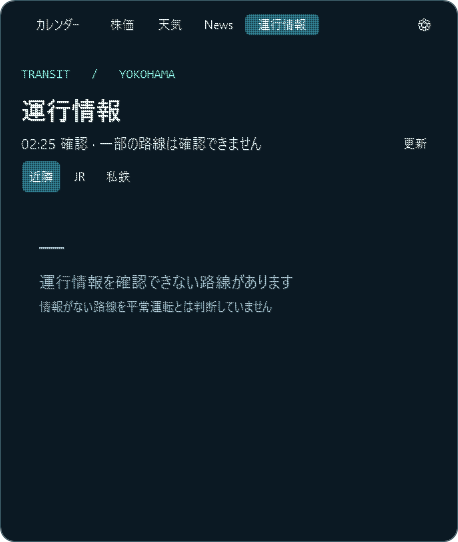
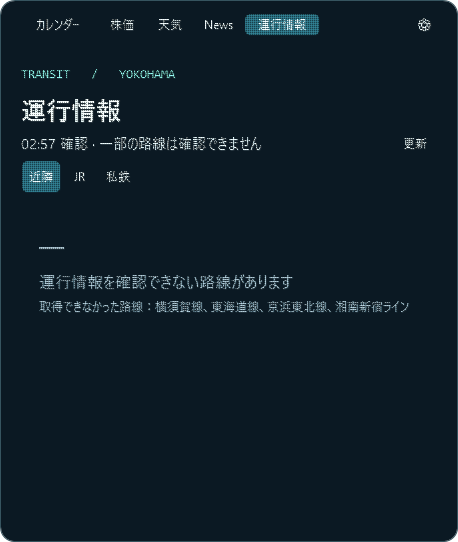
Show unconfirmed transit route names and add persisted particle animation speed

Changed region(s): [[0.0917, 0.5314, 0.8865, 0.5904], [0.0917, 0.2362, 0.1223, 0.2952]]

diff --git a/src/Calendar.xaml b/src/Calendar.xaml
@@ -175,9 +175,10 @@
             <UniformGrid Name="LoadingChoices" Columns="3"/>
             <Border Name="LoadingPreviewArea" Height="132" BorderBrush="#2A5965" BorderThickness="1" CornerRadius="6" Margin="4,10,4,3"><Grid Name="LoadingPreview" ClipToBounds="True"/></Border>
           </StackPanel></Grid>
-          <Grid><Button Name="ReplayPreview" Content="▶  もう一度プレビュー" HorizontalAlignment="Left" Foreground="#8FE4DD" Margin="4,3"/><Button Name="OpenCredits" Content="データ出典" HorizontalAlignment="Right" Margin="4,3" Foreground="#92B5BE"/></Grid>
+          <Grid><Grid.ColumnDefinitions><ColumnDefinition Width="Auto"/><ColumnDefinition/><ColumnDefinition Width="Auto"/></Grid.ColumnDefinitions><Button Name="ReplayPreview" Content="▶  もう一度プレビュー" HorizontalAlignment="Left" Foreground="#8FE4DD" Margin="4,3"/><Button Name="AnimationSpeed" Grid.Column="1" Content="速度：標準 ▾" HorizontalAlignment="Center" Width="108" Margin="0,3" ToolTip="画面の開閉・切り替えの演出速度"/><Button Name="OpenCredits" Grid.Column="2" Content="データ出典" HorizontalAlignment="Right" Margin="4,3" Foreground="#92B5BE"/></Grid>
         </StackPanel>
       </Border>
+      <Border Name="SpeedPicker" Grid.RowSpan="2" Width="176" HorizontalAlignment="Left" VerticalAlignment="Bottom" Margin="0,0,0,82" Background="#102835" BorderBrush="#528793" BorderThickness="1" CornerRadius="7" Padding="7" Visibility="Collapsed"><StackPanel Name="SpeedChoices"/></Border>
       <Border Name="TimerPicker" Grid.RowSpan="2" Width="312" HorizontalAlignment="Right" VerticalAlignment="Bottom" Margin="0,0,17,48"
               Background="#102835" BorderBrush="#528793" BorderThickness="1" CornerRadius="10" Padding="12" Visibility="Collapsed">
         <StackPanel>

diff --git a/src/InformationViews.cs b/src/InformationViews.cs
@@ -73,22 +73,28 @@ namespace OrbitCalendar
             if (news) { RenderNewsArticle(stale); return; }
             var routes = information.Items.Where(i => choice[4] == 0 || (choice[4] == 1 ? i.Source == "JR東日本" : i.Source != "JR東日本")).ToArray();
             var items = routes.Where(i => i.Normal == false).ToArray();
-            Get<TextBlock>("DataStamp").Text = information.Fetched.AddHours(9).ToString("HH:mm") + " 確認" + (stale ? " · 更新失敗（前回の情報）" : information.PartialFailure ? " · 一部の路線は確認できません" : "");
+            var unconfirmed = (stale ? routes : routes.Where(i => !i.Normal.HasValue)).Select(i => i.Title).Distinct().ToArray();
+            string missing = unconfirmed.Length == 0 ? "" : (stale ? "今回確認できなかった路線：" : "取得できなかった路線：") + string.Join("、", unconfirmed);
+            Get<TextBlock>("DataStamp").Text = information.Fetched.AddHours(9).ToString("HH:mm") + " 確認" + (stale ? " · 更新失敗（前回の情報）" : unconfirmed.Length > 0 ? " · 一部の路線は確認できません" : "");
             var body = Get<StackPanel>("InformationBody"); body.Children.Clear();
             if (items.Length == 0)
             {
                 bool clear = !stale && routes.Length > 0 && Array.TrueForAll(routes, r => r.Normal == true);
                 string title = clear ? "現在、運行に大きな乱れはありません" : stale ? "前回の確認では、遅延等の掲載はありません" : "運行情報を確認できない路線があります";
-                string detail = clear ? "対象路線に遅延・見合わせの発表はありません" : stale ? "更新できませんでした。最新情報は各社公式サイトへ" : "情報がない路線を平常運転とは判断していません";
+                string detail = clear ? "対象路線に遅延・見合わせの発表はありません" : missing.Length > 0 ? missing : "対象路線の情報を確認できませんでした";
                 var status = new StackPanel();
                 status.Children.Add(new TextBlock { Text = clear ? "✓" : "—", FontSize = 25, Foreground = clear ? aqua : muted });
                 status.Children.Add(new TextBlock { Text = title, FontSize = 16, TextWrapping = TextWrapping.Wrap, Foreground = clear ? aqua : muted, Margin = new Thickness(0, 9, 0, 7) });
-                status.Children.Add(new TextBlock { Text = detail, FontSize = 12, TextWrapping = TextWrapping.Wrap, Foreground = muted });
+                status.Children.Add(new TextBlock { Text = detail, FontSize = 12, TextWrapping = TextWrapping.Wrap, TextTrimming = TextTrimming.CharacterEllipsis, MaxHeight = 54, ToolTip = detail, Foreground = muted, Tag = missing.Length > 0 ? "transit-missing-names" : null });
                 body.Children.Add(new Border { Child = status, Padding = new Thickness(18), Margin = new Thickness(0, 16, 0, 0), CornerRadius = new CornerRadius(8), Background = Art.Ink("#152E39"), Tag = clear ? "transit-clear" : stale ? "transit-stale" : "transit-unavailable" });
                 return;
             }
             int perPage = 3;
             int pages = Math.Max(1, (items.Length + perPage - 1) / perPage); infoPage = Math.Max(0, Math.Min(infoPage, pages - 1));
+            if (missing.Length > 0)
+                body.Children.Add(new Border { Child = new TextBlock { Text = missing, FontSize = 12, TextWrapping = TextWrapping.Wrap,
+                    TextTrimming = TextTrimming.CharacterEllipsis, MaxHeight = 54, ToolTip = missing, Foreground = muted, Tag = "transit-missing-names" },
+                    Padding = new Thickness(10, 8, 10, 8), Margin = new Thickness(0, 7, 0, 5), CornerRadius = new CornerRadius(7), Background = Art.Ink("#152E39"), Tag = "transit-missing" });
             foreach (var item in items.Skip(infoPage * perPage).Take(perPage))
             {
                 var captured = item;
@@ -101,7 +107,7 @@ namespace OrbitCalendar
                 }
                 string date = item.Published.HasValue ? item.Published.Value.ToOffset(TimeSpan.FromHours(9)).ToString("M/d HH:mm") + (news ? " 配信" : " 発表") : news ? "配信時刻なし" : "発表時刻なし";
                 content.Children.Add(new TextBlock { Text = item.Source + " · " + date + " ↗", FontSize = 10, Foreground = Art.Ink("#92B5BE"), Margin = new Thickness(0, 4, 0, 0) });
-                var button = new Button { Content = content, Padding = new Thickness(9, 7, 9, 7), Background = Art.Ink("#152E39"), Margin = new Thickness(0, 4, 0, 0), HorizontalContentAlignment = HorizontalAlignment.Left, ToolTip = news ? "元記事を開く" : "公式の運行情報を開く" };
+                var button = new Button { Content = content, Padding = new Thickness(9, 7, 9, 7), Background = Art.Ink("#152E39"), Margin = new Thickness(0, 4, 0, 0), HorizontalContentAlignment = HorizontalAlignment.Left, ToolTip = news ? "元記事を開く" : "公式の運行情報を開く", Tag = "transit-disruption" };
                 button.Click += delegate { OpenLink(captured.Url); }; body.Children.Add(button);
             }
             if (pages <= 1) return;

diff --git a/src/Controls.cs b/src/Controls.cs
@@ -12,10 +12,13 @@ namespace OrbitCalendar
     {
         static readonly string path = Path.Combine(Environment.GetFolderPath(Environment.SpecialFolder.LocalApplicationData), "OrbitCalendar", "display.txt");
         public static int Pattern, Motion = 6, Minutes = 30, LastTab, LoadingStyle;
+        public static int AnimationSpeed = 1;
+        public static double AnimationScale { get { return AnimationSpeed == 0 ? .5 : AnimationSpeed == 2 ? 1.4 : 1; } }
         static Preferences() { Load(); }
         internal static void Load()
         {
             Pattern = LastTab = LoadingStyle = 0; Motion = 6; Minutes = 30;
+            AnimationSpeed = 1;
             try
             {
                 var parts = File.ReadAllLines(path);
@@ -25,13 +28,14 @@ namespace OrbitCalendar
                 if (parts.Length > 2 && int.TryParse(parts[2], out value) && value >= 1 && value <= 180) Minutes = value;
                 if (parts.Length > 3 && int.TryParse(parts[3], out value) && value >= 0 && value <= 4) LastTab = value;
                 if (parts.Length > 4 && int.TryParse(parts[4], out value) && value >= 0 && value < 6) LoadingStyle = value;
+                if (parts.Length > 5 && int.TryParse(parts[5], out value) && value >= 0 && value < 3) AnimationSpeed = value;
             }
             catch (IOException) { }
             catch (UnauthorizedAccessException) { }
         }
         public static void Save()
         {
-            try { Directory.CreateDirectory(Path.GetDirectoryName(path)); File.WriteAllLines(path, new[] { Pattern.ToString(), Motion.ToString(), Minutes.ToString(), LastTab.ToString(), LoadingStyle.ToString() }); }
+            try { Directory.CreateDirectory(Path.GetDirectoryName(path)); File.WriteAllLines(path, new[] { Pattern.ToString(), Motion.ToString(), Minutes.ToString(), LastTab.ToString(), LoadingStyle.ToString(), AnimationSpeed.ToString() }); }
             catch (IOException) { }
             catch (UnauthorizedAccessException) { }
         }
@@ -43,6 +47,7 @@ namespace OrbitCalendar
         OutsideClick outside;
         void InitializeControls()
         {
+            InitializeAnimationSpeed();
             outside = new OutsideClick(delegate { if (IsVisible && !IsClosing) collapse(); });
             IsVisibleChanged += delegate { outside.Enabled = IsVisible; };
             Closed += delegate { outside.Dispose(); };
@@ -51,7 +56,7 @@ namespace OrbitCalendar
                 CloseMarketSettings();
                 CancelPlaceSelection();
                 var picker = Get<Border>("TimerPicker");
-                Get<Border>("SettingsPicker").Visibility = Visibility.Collapsed;
+                Get<Border>("SettingsPicker").Visibility = Visibility.Collapsed; Get<Border>("SpeedPicker").Visibility = Visibility.Collapsed;
                 bool opening = picker.Visibility != Visibility.Visible;
                 Rect bounds = PanelBounds(picker);
                 picker.Visibility = opening ? Visibility.Visible : Visibility.Collapsed;
@@ -94,7 +99,8 @@ namespace OrbitCalendar
                     var picker = Get<Border>(name);
                     var opener = Get<Button>(name == "TimerPicker" ? "TimerDuration" : "SettingsButton");
                     if (picker.Visibility == Visibility.Visible && target != opener &&
-                        !picker.IsAncestorOf(target) && !opener.IsAncestorOf(target)) ClosePanel(name);
+                        !picker.IsAncestorOf(target) && !opener.IsAncestorOf(target) &&
+                        !(name == "SettingsPicker" && Get<Border>("SpeedPicker").IsAncestorOf(target))) ClosePanel(name);
                 }
             };
             Get<Button>("SettingsButton").Click += delegate
@@ -123,12 +129,14 @@ namespace OrbitCalendar
             var panel = Get<Border>(name);
             if (panel.Visibility != Visibility.Visible) return;
             Rect bounds = PanelBounds(panel);
+            if (name == "SettingsPicker") Get<Border>("SpeedPicker").Visibility = Visibility.Collapsed;
             panel.Visibility = Visibility.Collapsed;
             effect.StartArea(bounds);
         }
 
         void UpdateSettingChoices()
         {
+            UpdateSpeedChoices();
             FillChoices("PatternChoices", new[] { "ドット", "グリッド", "ストライプ", "きらめき" }, Preferences.Pattern, delegate(int value)
             {
                 Preferences.Pattern = value;

diff --git a/src/AnimationSpeed.cs b/src/AnimationSpeed.cs
@@ -1,0 +1,51 @@
+using System;
+using System.Windows;
+using System.Windows.Controls;
+
+namespace OrbitCalendar
+{
+    internal partial class CalendarPanel
+    {
+        static readonly string[] speedNames = { "速い", "標準", "ゆっくり" };
+        void InitializeAnimationSpeed()
+        {
+            Get<Button>("AnimationSpeed").Click += delegate
+            {
+                var picker = Get<Border>("SpeedPicker");
+                if (picker.Visibility == Visibility.Visible) { ClosePanel("SpeedPicker"); return; }
+                UpdateSpeedChoices();
+                var bounds = PanelBounds(Get<Button>("AnimationSpeed"));
+                picker.Margin = new Thickness(Math.Max(16, Math.Min(root.Width - 16 - picker.Width, bounds.Left + (bounds.Width - picker.Width) / 2)),
+                    0, 0, Math.Max(16, Get<Grid>("Face").ActualHeight - bounds.Top + 5));
+                picker.Visibility = Visibility.Visible;
+                effect.StartArea(PanelBounds(picker));
+            };
+            root.PreviewMouseDown += delegate(object sender, System.Windows.Input.MouseButtonEventArgs e)
+            {
+                var target = e.OriginalSource as DependencyObject;
+                var picker = Get<Border>("SpeedPicker"); var trigger = Get<Button>("AnimationSpeed");
+                if (target != null && picker.Visibility == Visibility.Visible && target != trigger &&
+                    !picker.IsAncestorOf(target) && !trigger.IsAncestorOf(target)) ClosePanel("SpeedPicker");
+            };
+        }
+        void UpdateSpeedChoices()
+        {
+            Get<Button>("AnimationSpeed").Content = "速度：" + speedNames[Preferences.AnimationSpeed] + " ▾";
+            var choices = Get<StackPanel>("SpeedChoices"); choices.Children.Clear();
+            string[] seconds = { "0.9", "1.8", "2.5" };
+            for (int i = 0; i < speedNames.Length; i++)
+            {
+                int speed = i;
+                var button = new Button { Content = speedNames[i] + " · 約" + seconds[i] + "秒", Height = 32, Margin = new Thickness(3),
+                    Background = Art.Ink(i == Preferences.AnimationSpeed ? "#287181" : "#193B48") };
+                button.Click += delegate
+                {
+                    Preferences.AnimationSpeed = speed; Preferences.Save();
+                    Get<Border>("SpeedPicker").Visibility = Visibility.Collapsed; UpdateSpeedChoices();
+                    effect.StartArea(PanelBounds(Get<Border>("SettingsPicker")), true);
+                };
+                choices.Children.Add(button);
+            }
+        }
+    }
+}

diff --git a/src/AssemblyEffect.cs b/src/AssemblyEffect.cs
@@ -28,6 +28,7 @@ namespace OrbitCalendar
         public bool Busy { get { return assembling || Closing; } }
         public bool Closing { get { return onDismissed != null; } }
         double seconds;
+        double timeScale = 1;
         bool assembling, morph, rendering, dirty;
         int motionStyle, sequence;
         const double Gather = 1.05;
@@ -100,6 +101,7 @@ namespace OrbitCalendar
 
         void Start(bool fromPrevious, Rect area, Rect[] regions = null)
         {
+            timeScale = Preferences.AnimationScale;
             motionStyle = Preferences.Motion == 0 ? (++sequence % 5) + 1 : Preferences.Motion;
             dirty = false;
             var previous = grains;
@@ -323,6 +325,7 @@ namespace OrbitCalendar
         {
             if (Closing) return;
             Stop();
+            timeScale = Preferences.AnimationScale;
             if (layer == null || !SystemParameters.ClientAreaAnimation) { done(); return; }
             // Use the most recently rendered positions even if opening was interrupted.
             var departing = new List<Grain>();
@@ -348,7 +351,7 @@ namespace OrbitCalendar
 
         void Frame(object sender, EventArgs e)
         {
-            seconds = watch.Elapsed.TotalSeconds;
+            seconds = watch.Elapsed.TotalSeconds / timeScale;
             if (Closing)
             {
                 double scale = 1 - Ease(seconds / .62);

diff --git a/src/MarketPeriods.cs b/src/MarketPeriods.cs
@@ -38,7 +38,7 @@ namespace OrbitCalendar
                 var target = e.OriginalSource as DependencyObject; var picker = Get<Border>("RangePicker"); var trigger = Get<Button>("MarketRange");
                 if (target != null && picker.Visibility == Visibility.Visible && !picker.IsAncestorOf(target) && !trigger.IsAncestorOf(target) && target != trigger) ClosePanel("RangePicker");
             };
-            Get<Button>("OpenCredits").Click += delegate { Get<Border>("SettingsPicker").Visibility = Visibility.Collapsed; Get<Border>("CreditsPicker").Visibility = Visibility.Visible; UpdateLayout(); effect.StartArea(PanelBounds(Get<Border>("CreditsPicker")), true); };
+            Get<Button>("OpenCredits").Click += delegate { Get<Border>("SettingsPicker").Visibility = Visibility.Collapsed; Get<Border>("SpeedPicker").Visibility = Visibility.Collapsed; Get<Border>("CreditsPicker").Visibility = Visibility.Visible; UpdateLayout(); effect.StartArea(PanelBounds(Get<Border>("CreditsPicker")), true); };
             Get<Button>("CloseCredits").Click += delegate { ClosePanel("CreditsPicker"); };
             string[,] links = {
                 { "地図：国土地理院（色を加工）", "https://maps.gsi.go.jp/development/ichiran.html" },

diff --git a/src/CalendarPanel.cs b/src/CalendarPanel.cs
@@ -82,6 +82,7 @@ namespace OrbitCalendar
             if (e.Key == Key.Escape && Get<Border>("MarketPicker").Visibility == Visibility.Visible) CloseMarketSettings();
             else if (Get<Border>("MarketPicker").Visibility == Visibility.Visible) return;
             else if (e.Key == Key.Escape && selectingPlace) { CancelPlaceSelection(); effect.Refresh(); }
+            else if (e.Key == Key.Escape && Get<Border>("SpeedPicker").Visibility == Visibility.Visible) ClosePanel("SpeedPicker");
             else if (e.Key == Key.Escape && Get<Border>("SettingsPicker").Visibility == Visibility.Visible)
             {
                 ClosePanel("SettingsPicker");
@@ -216,7 +217,7 @@ namespace OrbitCalendar
             if (loading != null) { loading.Cancel(); nextUpdate = DateTime.MinValue; }
             CancelPlaceSelection();
             Get<Border>("TimerPicker").Visibility = Visibility.Collapsed;
-            Get<Border>("SettingsPicker").Visibility = Visibility.Collapsed;
+            Get<Border>("SettingsPicker").Visibility = Visibility.Collapsed; Get<Border>("SpeedPicker").Visibility = Visibility.Collapsed;
             root.IsHitTestVisible = false;
             effect.Dismiss(Hide);
         }

diff --git a/src/DataViews.cs b/src/DataViews.cs
@@ -84,7 +84,7 @@ namespace OrbitCalendar
             Get<Border>("RangePicker").Visibility = Visibility.Collapsed;
             Get<Border>("CreditsPicker").Visibility = Visibility.Collapsed;
             Get<Border>("TimerPicker").Visibility = Visibility.Collapsed;
-            Get<Border>("SettingsPicker").Visibility = Visibility.Collapsed;
+            Get<Border>("SettingsPicker").Visibility = Visibility.Collapsed; Get<Border>("SpeedPicker").Visibility = Visibility.Collapsed;
             CancelPlaceSelection();
             zoomWait.Stop();
             StopRadar();

diff --git a/src/MarketTransitions.cs b/src/MarketTransitions.cs
@@ -56,7 +56,7 @@ namespace OrbitCalendar
                 marketTransition.Stop(); marketTransition.Refresh(); picker.Visibility = Visibility.Collapsed;
                 marketTransition.Dismiss(delegate { marketTransitionHost.Visibility = Visibility.Collapsed; picker.Opacity = 1; });
             }
-            else marketTransitionFinish.Start();
+            else { marketTransitionFinish.Interval = TimeSpan.FromSeconds(1.8 * Preferences.AnimationScale); marketTransitionFinish.Start(); }
         }
     }
 }

diff --git a/src/MarketSettings.cs b/src/MarketSettings.cs
@@ -72,7 +72,7 @@ namespace OrbitCalendar
         void OpenMarketSettings(bool search)
         {
             CancelPlaceSelection();
-            Get<Border>("SettingsPicker").Visibility = Visibility.Collapsed;
+            Get<Border>("SettingsPicker").Visibility = Visibility.Collapsed; Get<Border>("SpeedPicker").Visibility = Visibility.Collapsed;
             Get<Border>("TimerPicker").Visibility = Visibility.Collapsed;
             effect.Refresh();
             var picker = Get<Border>("MarketPicker");
